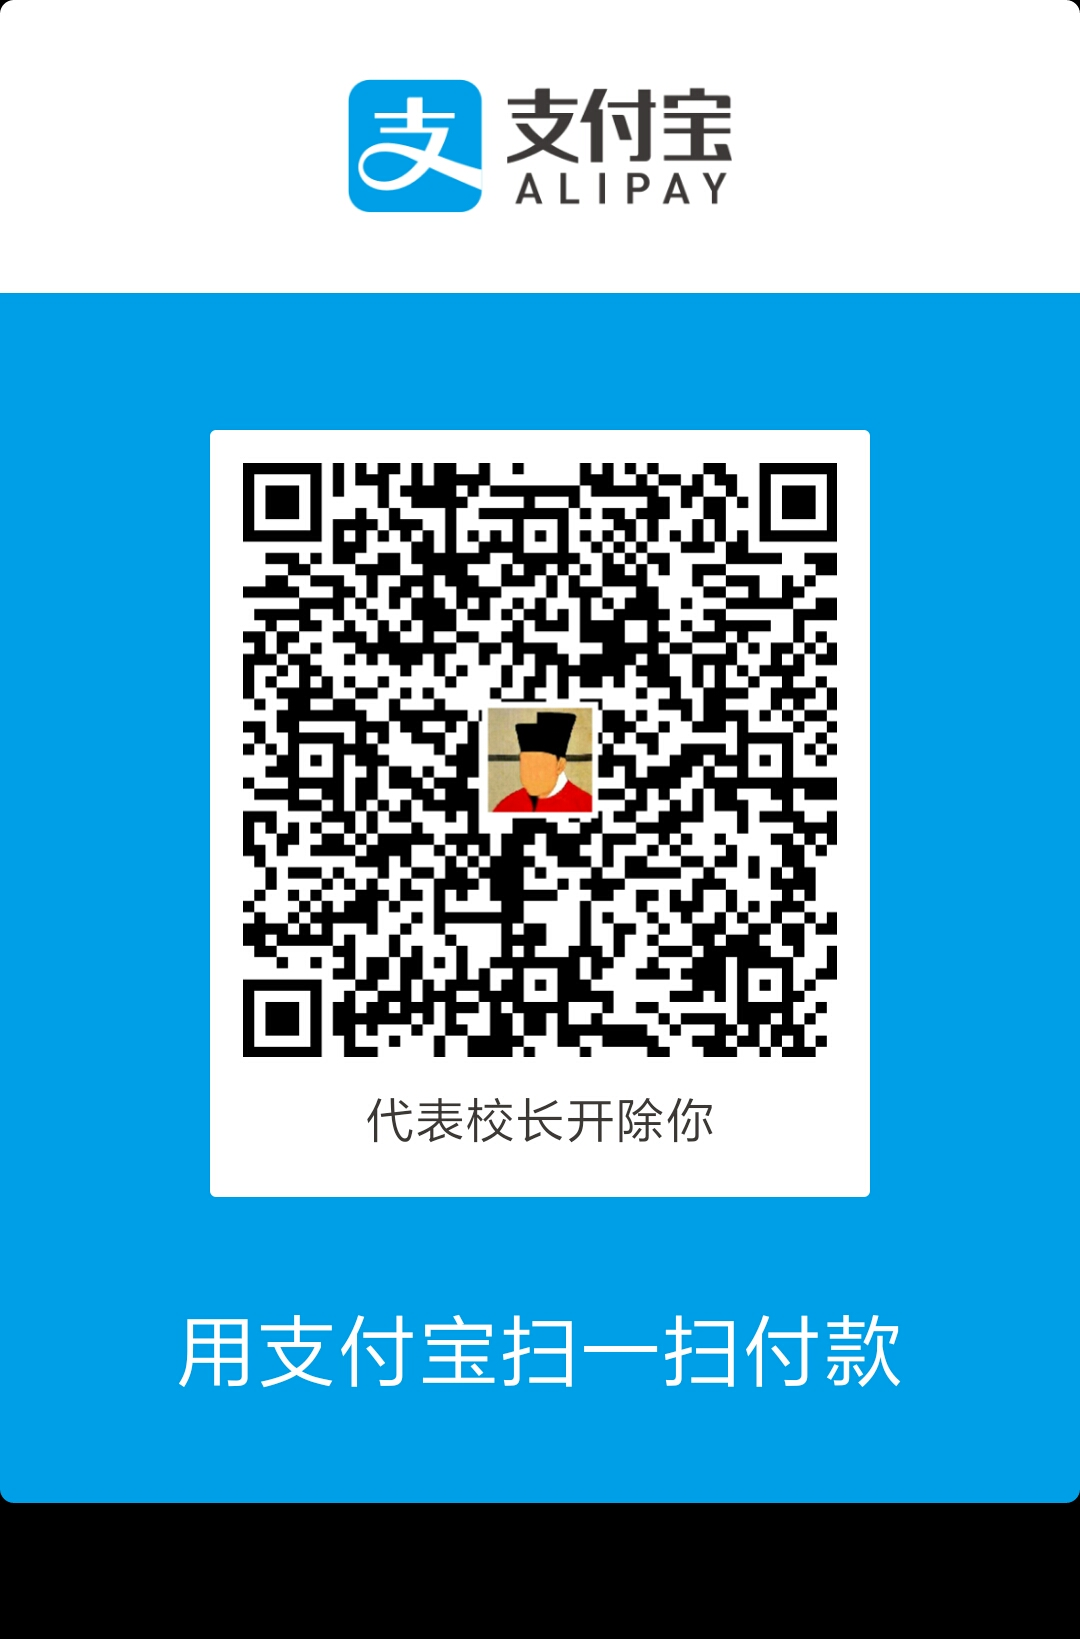
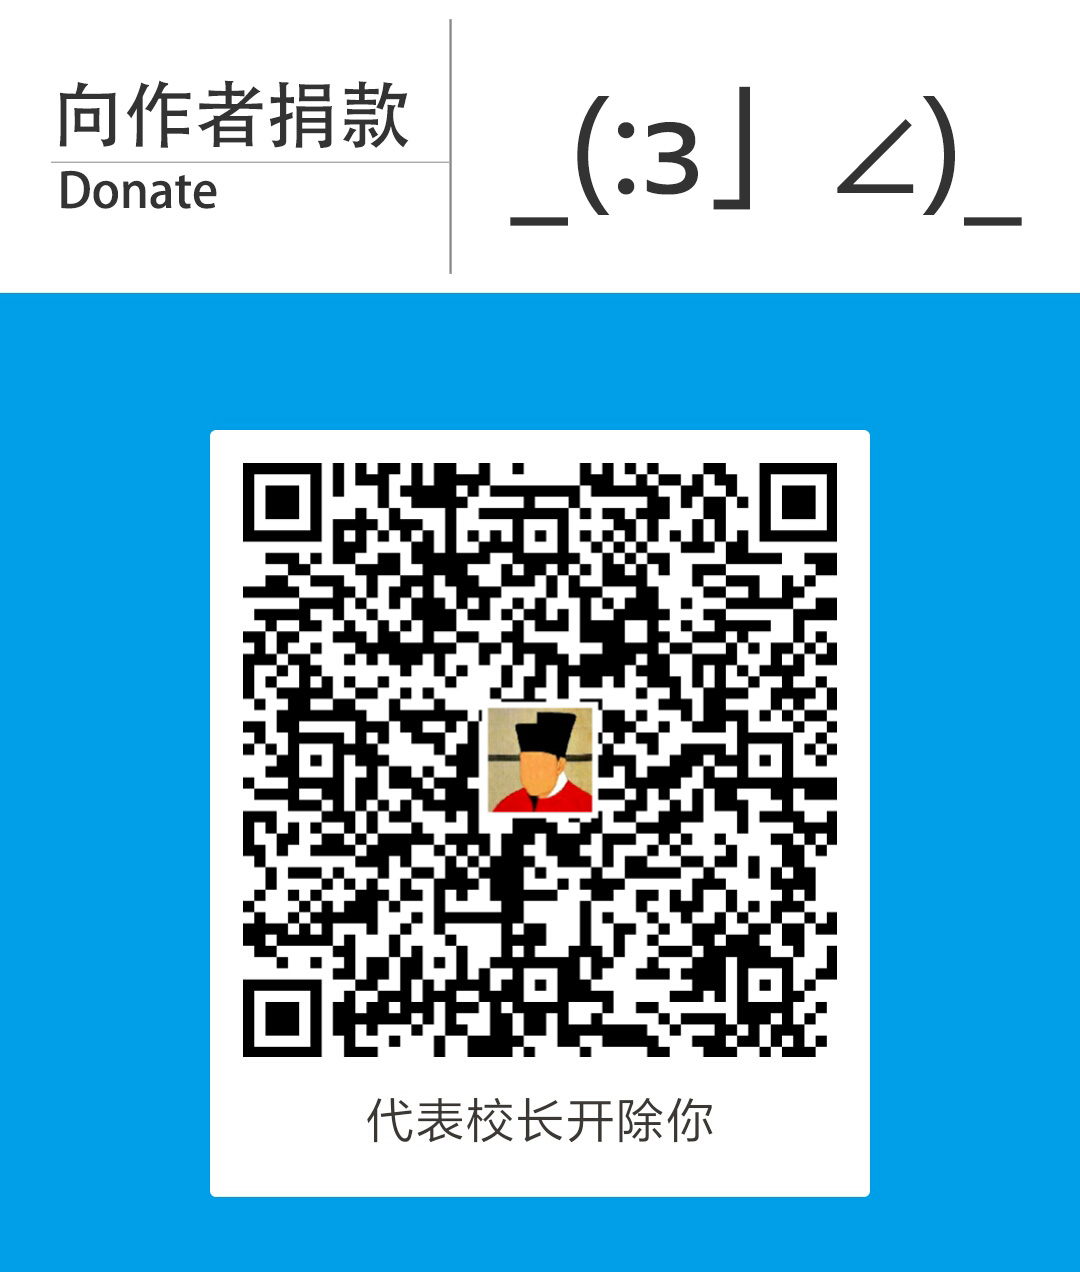
update readme

diff --git a/README.MD b/README.MD
@@ -15,3 +15,9 @@
 ## 对于参与者的要求
 
 我们希望参与者，有基本的琴学知识，以防止出现错漏。要尽可能的保持古籍之原貌，使得重制版依旧**具有学术价值**，而非只作为一琴谱而已。
+
+---------------
+
+欢迎向作者捐款（想换一把好琴啊 \_(:з」∠)\_ ）：
+
+![](img\donate.jpg)
